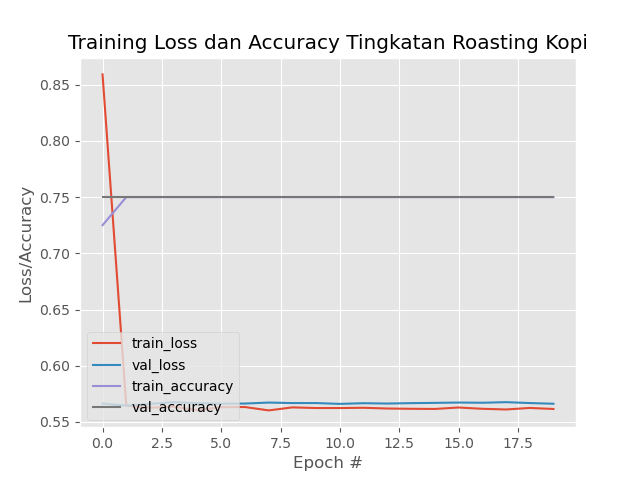
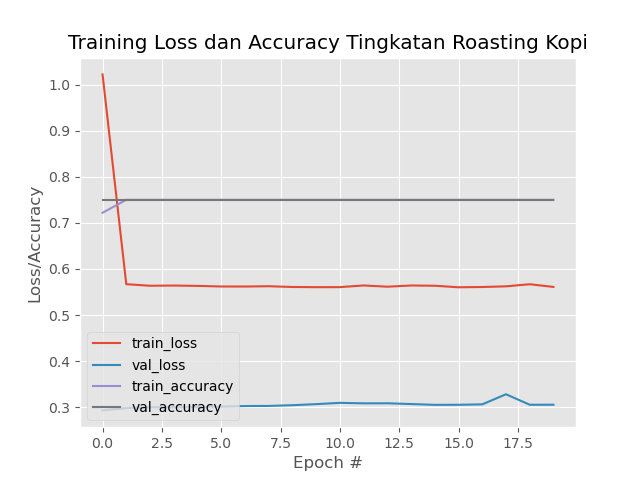
confusion matrix vgg16 (overfitting)

diff --git a/VGG16/train_vgg16.py b/VGG16/train_vgg16.py
@@ -17,6 +17,10 @@ import matplotlib.pyplot as plt
 import random
 import os
 import argparse
+from tensorflow.keras.utils import to_categorical
+from sklearn.preprocessing import LabelBinarizer
+from sklearn.metrics import classification_report
+from sklearn.metrics import confusion_matrix
 
 #Setting for using CPU
 tf.config.experimental.set_visible_devices([], 'GPU')
@@ -99,7 +103,7 @@ model.compile(loss="binary_crossentropy", optimizer=opt, metrics=["accuracy"])
 #train the network
 print("[Info] training model")
 H = model.fit_generator(aug.flow(trainX, trainY, batch_size=BS),
-	validation_data=(testX, testY), steps_per_epoch=len(trainX) // BS,
+	validation_data=(testX, testY), steps_per_epoch=len(trainX) // BS, validation_steps=len(testX) // BS,
 	epochs=EPOCHS, verbose=1)
 
 #save model
@@ -108,6 +112,53 @@ model.save('train_VGG16.model.h5')
 
 #simpan model ke disk
 # model.save(args["model"])
+
+#encoding pada labels
+lb = LabelBinarizer()
+labels = lb.fit_transform(labels)
+labels = to_categorical(labels)
+#confusion matrix
+print("[Info] Evaluasi Network......")
+predIdxs = model.predict(testX, batch_size=BS)
+predIdxs = np.argmax(predIdxs, axis=1)
+print("[Info] Classification Report")
+print (classification_report(testY.argmax(axis=1), predIdxs, 
+        target_names=[str(x) for x in lb.classes_]))
+
+#accuracy, sensivitas, spesifitas
+cm = confusion_matrix(testY.argmax(axis=1), predIdxs)
+print("[Info] Data uji - Data Hasil Predict")
+print(testY.argmax(axis=1))
+print(predIdxs)
+total = sum(sum(cm))
+print("total",total)
+# #Akurasi
+acc = (cm[0,0] + cm[1,1] + cm[2,2] + cm[3,3]) / total
+
+#Spesifitas
+spesivitasME = (cm[1,1] + cm[2,2] + cm[3,3]) / ((cm[1,1] + cm[2,2] + cm[3,3]) + (cm[0,1] + cm[0,2] + cm[0,3]))
+spesivitasLR = (cm[0,0] + cm[2,2] + cm[3,3]) / ((cm[0,0] + cm[2,2] + cm[3,3]) + (cm[0,1] + cm[0,2] + cm[0,3]))
+spesivitasMR = (cm[0,0] + cm[1,1] + cm[3,3]) / ((cm[0,0] + cm[1,1] + cm[3,3]) + (cm[0,1] + cm[0,2] + cm[0,3]))
+spesivitasDR = (cm[0,0] + cm[1,1] + cm[2,2]) / ((cm[0,0] + cm[1,1] + cm[2,2]) + (cm[0,1] + cm[0,2] + cm[0,3]))
+
+#Sensivitas
+sensivitasME = cm[0,0] / (cm[0,0] + (cm[1,0] + cm[2,0] + cm[3,0]))
+sensivitasLR = cm[1,1] / (cm[1,1] + (cm[0,1] + cm[2,1] + cm[3,1]))
+sensivitasMR = cm[2,2] / (cm[2,2] + (cm[0,2] + cm[2,2] + cm[3,2]))
+sensivitasDR = cm[3,3] / (cm[3,3] + (cm[0,3] + cm[1,3] + cm[2,3]))
+
+print("[Info] Confusion Matrix")
+print(cm)
+print("akurasi (rumus sendiri): {:.2f}".format(acc))
+print("Sensivitas Light Roast: {:.2f}".format(sensivitasLR))
+print("Sensivitas Medium Roast: {:.2f}".format(sensivitasMR))
+print("Sensivitas Dark Roast: {:.2f}".format(sensivitasDR))
+print("Sensivitas Mentah: {:.2f}".format(sensivitasME))
+
+print("Spesivitas Light Roast: {:.2f}".format(spesivitasLR))
+print("Spesivitas Medium Roast: {:.2f}".format(spesivitasMR))
+print("Spesivitas Dark Roast: {:.2f}".format(spesivitasDR))
+print("Spesivitas Mentah: {:.2f}".format(spesivitasME))
 
 #plot training loss dan accuracy
 plt.style.use("ggplot")
